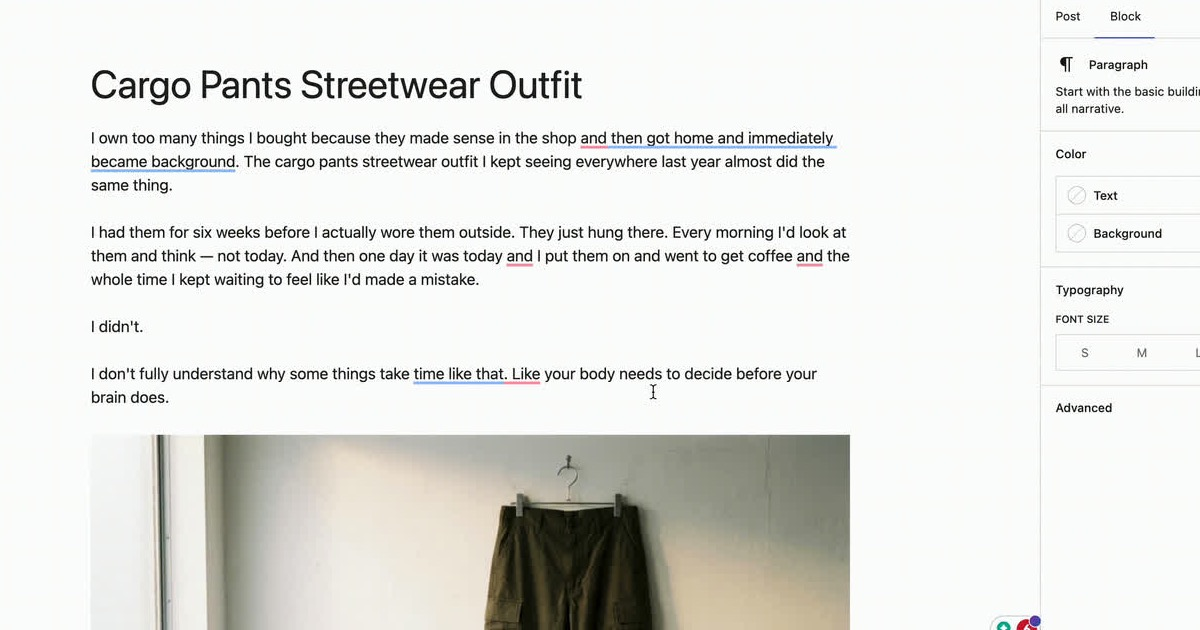
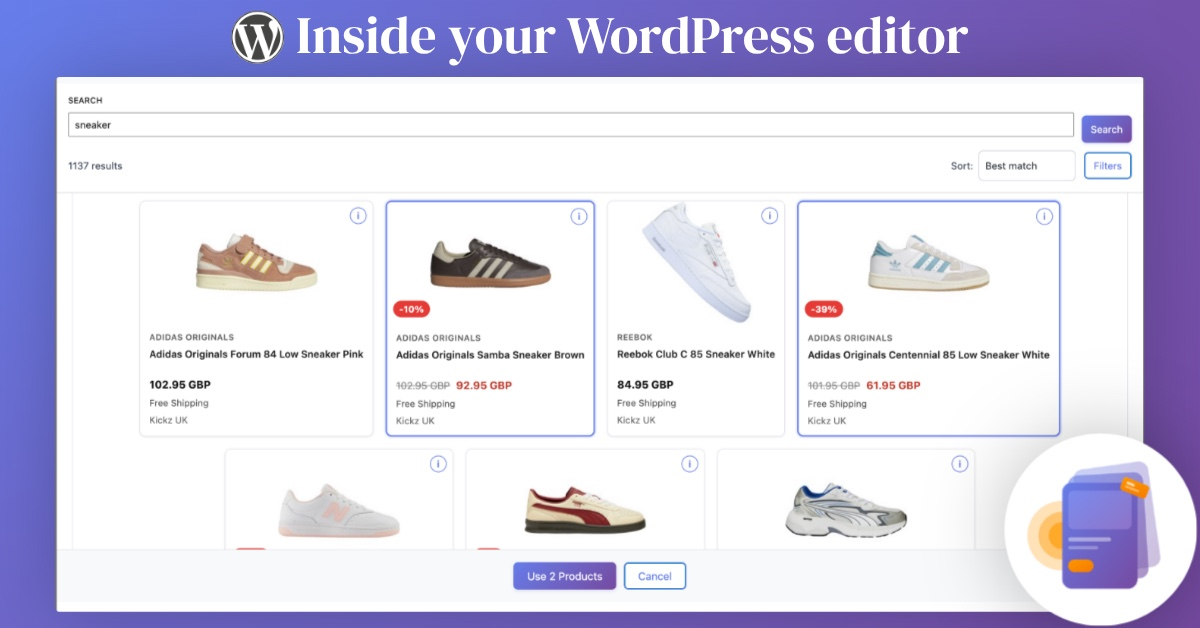
og:image: swap demo poster for the picker+sneakers ad creative
Previous og-image.jpg was a 1200x630 crop of the demo video poster —
it showed the WordPress block editor with a Cargo-Pants blog post and
a cropped sidebar, but no affiliate card was actually visible in the
frame. Brand-aesthetic check, but the core feature wasn't on screen.

Swapped in the Canva ad creative that's already running on Reddit:
"Inside your WordPress editor" WordPress-W header, the full picker
modal with Adidas/Reebok/Puma sneakers, three cards selected, and the
purple brand gradient. Same image people see on the ad — same image
they see if a link to myfeeds.site gets shared. Funnel-consistent.

The source is 1200x628 (Twitter and Facebook both accept this as
summary_large_image — it's the same 1.91:1 ratio as 1200x630),
exported from Canva PNG and reconverted to JPEG at 90% quality to
keep file size at 134 KB instead of the PNG's 285 KB.

og:image:height meta on all nine pages updated from 630 to 628 so
strict OG parsers don't fall back to a thumbnail.

diff --git a/articles/index.html b/articles/index.html
@@ -12,7 +12,7 @@
 <meta property="og:description" content="Updates from building MyFeeds — the affiliate product feed manager for WordPress. Launches, milestones, and lessons I'm learning as I grow it.">
 <meta property="og:image" content="https://myfeeds.site/assets/og-image.jpg">
 <meta property="og:image:width" content="1200">
-<meta property="og:image:height" content="630">
+<meta property="og:image:height" content="628">
 <meta property="og:url" content="https://myfeeds.site/articles/">
 <meta name="twitter:card" content="summary_large_image">
 <meta name="twitter:title" content="MyFeeds Updates — Building an affiliate plugin in public">

diff --git a/articles/just-launched-on-wordpress-org.html b/articles/just-launched-on-wordpress-org.html
@@ -12,7 +12,7 @@
 <meta property="og:description" content="After 2 years of building, MyFeeds is live on WordPress. A plugin that keeps affiliate product cards current automatically, built because my own posts kept rotting.">
 <meta property="og:image" content="https://myfeeds.site/assets/og-image.jpg">
 <meta property="og:image:width" content="1200">
-<meta property="og:image:height" content="630">
+<meta property="og:image:height" content="628">
 <meta property="og:url" content="https://myfeeds.site/articles/just-launched-on-wordpress-org.html">
 <meta property="article:published_time" content="2026-05-25">
 <meta property="article:author" content="Marlon">

diff --git a/business/index.html b/business/index.html
@@ -13,7 +13,7 @@
 <meta property="og:description" content="Turn your affiliate feed into a real shop on WordPress. Visitors browse like they would on any retailer's site. Search engines treat you like one.">
 <meta property="og:image" content="https://myfeeds.site/assets/og-image.jpg">
 <meta property="og:image:width" content="1200">
-<meta property="og:image:height" content="630">
+<meta property="og:image:height" content="628">
 <link rel="icon" type="image/png" href="/favicon.png">
 <link rel="icon" type="image/x-icon" href="/favicon.ico">
 <link rel="apple-touch-icon" href="/apple-touch-icon.png">

diff --git a/imprint/index.html b/imprint/index.html
@@ -13,7 +13,7 @@
 <meta property="og:description" content="Imprint and legal disclosure for MyFeeds — affiliate product feed manager for WordPress.">
 <meta property="og:image" content="https://myfeeds.site/assets/og-image.jpg">
 <meta property="og:image:width" content="1200">
-<meta property="og:image:height" content="630">
+<meta property="og:image:height" content="628">
 <meta name="twitter:card" content="summary_large_image">
 <meta name="twitter:url" content="https://myfeeds.site/imprint/">
 <meta name="twitter:title" content="Imprint — MyFeeds">

diff --git a/index.html b/index.html
@@ -13,7 +13,7 @@
 <meta property="og:description" content="Stop copy-pasting affiliate products. Your network's product feed becomes a searchable catalog inside WordPress. Pick in the editor, publish, move on.">
 <meta property="og:image" content="https://myfeeds.site/assets/og-image.jpg">
 <meta property="og:image:width" content="1200">
-<meta property="og:image:height" content="630">
+<meta property="og:image:height" content="628">
 <meta name="twitter:card" content="summary_large_image">
 <meta name="twitter:url" content="https://myfeeds.site/">
 <meta name="twitter:title" content="MyFeeds — Affiliate Product Feed Manager">

diff --git a/install/index.html b/install/index.html
@@ -13,7 +13,7 @@
 <meta property="og:description" content="Two install paths in one place. Free runs from WordPress.org in two clicks. Pro and Business activate from the Freemius purchase email in five steps.">
 <meta property="og:image" content="https://myfeeds.site/assets/og-image.jpg">
 <meta property="og:image:width" content="1200">
-<meta property="og:image:height" content="630">
+<meta property="og:image:height" content="628">
 <meta name="twitter:card" content="summary_large_image">
 <meta name="twitter:url" content="https://myfeeds.site/install/">
 <meta name="twitter:title" content="Install MyFeeds — Free + Pro setup guide">

diff --git a/privacy/index.html b/privacy/index.html
@@ -13,7 +13,7 @@
 <meta property="og:description" content="How MyFeeds handles your data on myfeeds.site and inside the MyFeeds WordPress plugin — what we store, what we don't, and your rights under GDPR.">
 <meta property="og:image" content="https://myfeeds.site/assets/og-image.jpg">
 <meta property="og:image:width" content="1200">
-<meta property="og:image:height" content="630">
+<meta property="og:image:height" content="628">
 <meta name="twitter:card" content="summary_large_image">
 <meta name="twitter:url" content="https://myfeeds.site/privacy/">
 <meta name="twitter:title" content="Privacy Policy — MyFeeds">

diff --git a/refund/index.html b/refund/index.html
@@ -13,7 +13,7 @@
 <meta property="og:description" content="Refund policy for MyFeeds Pro and Business subscriptions: free trial (7 days on Pro, 14 days on Business), 14-day EU right of withdrawal, and our voluntary refund policy.">
 <meta property="og:image" content="https://myfeeds.site/assets/og-image.jpg">
 <meta property="og:image:width" content="1200">
-<meta property="og:image:height" content="630">
+<meta property="og:image:height" content="628">
 <meta name="twitter:card" content="summary_large_image">
 <meta name="twitter:url" content="https://myfeeds.site/refund/">
 <meta name="twitter:title" content="Refund Policy — MyFeeds">

diff --git a/terms/index.html b/terms/index.html
@@ -13,7 +13,7 @@
 <meta property="og:description" content="Terms of Service for using MyFeeds — the affiliate product feed manager for WordPress. Free, Pro, and Business subscription terms.">
 <meta property="og:image" content="https://myfeeds.site/assets/og-image.jpg">
 <meta property="og:image:width" content="1200">
-<meta property="og:image:height" content="630">
+<meta property="og:image:height" content="628">
 <meta name="twitter:card" content="summary_large_image">
 <meta name="twitter:url" content="https://myfeeds.site/terms/">
 <meta name="twitter:title" content="Terms of Service — MyFeeds">